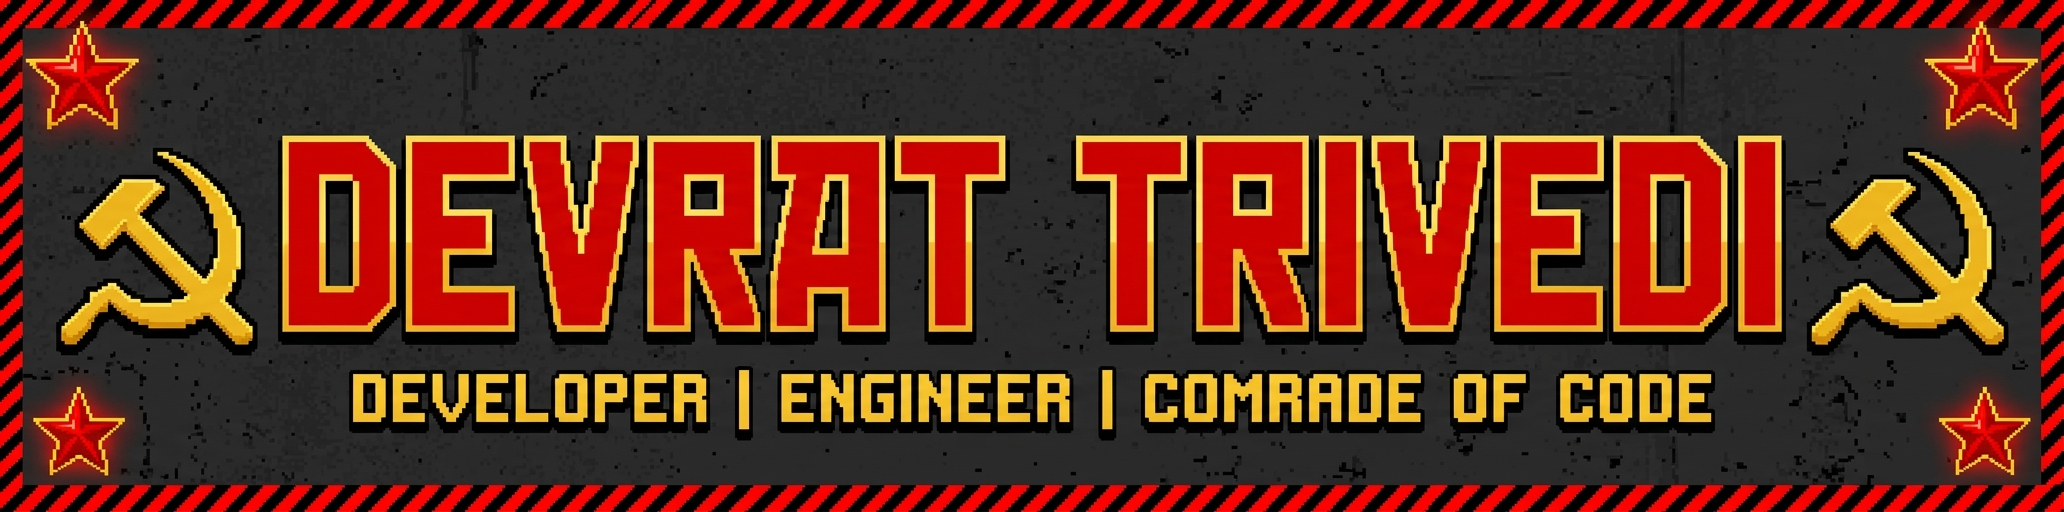
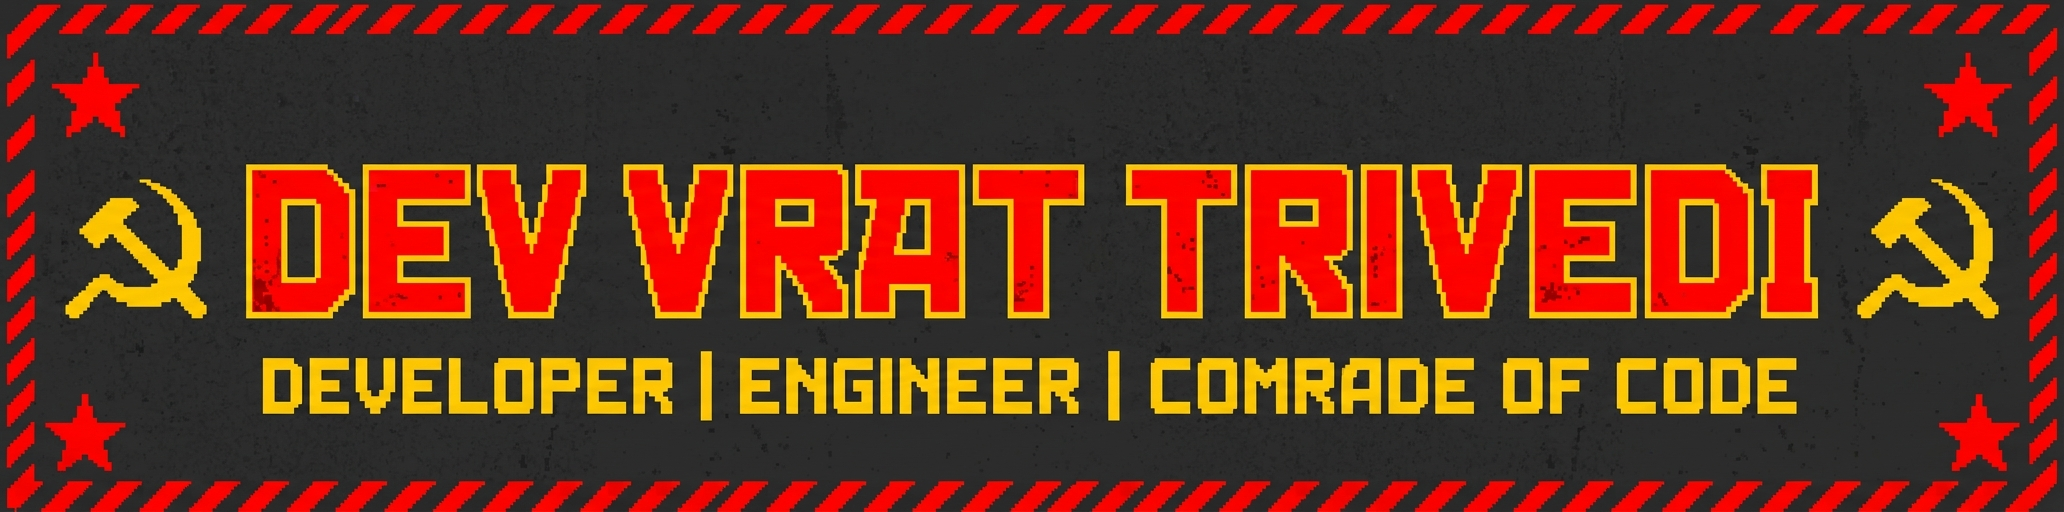
☭ Fix name: DEV VRAT TRIVEDI (not Devrat)

diff --git a/README.md b/README.md
@@ -4,7 +4,7 @@
 ![Soviet Pixel Art Banner](./assets/banner.jpg)
 
 <!-- NAME BADGE -->
-![Dev Vrat Trivedi](./assets/name_badge.jpg)
+![Dev Vrat Trivedi — DEV VRAT TRIVEDI](./assets/name_badge.jpg)
 
 <br/>
 
@@ -28,7 +28,7 @@
 ║         PERSONNEL FILE — CLASSIFIED                  ║
 ║         Ministry of Software Engineering             ║
 ╠══════════════════════════════════════════════════════╣
-║  Name     : Dev Vrat Trivedi                         ║
+║  Name     : Dev Vrat Trivedi                        ║
 ║  Division : BTech CSE '28                            ║
 ║  Status   : ACTIVE — Building AI, Cloud & Web        ║
 ║  Base     : Lucknow, UP, India 🇮🇳                   ║
